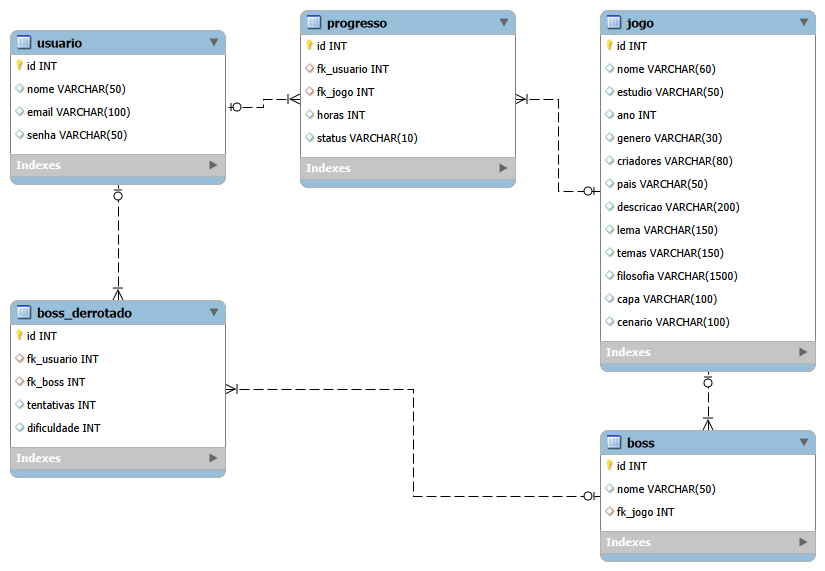
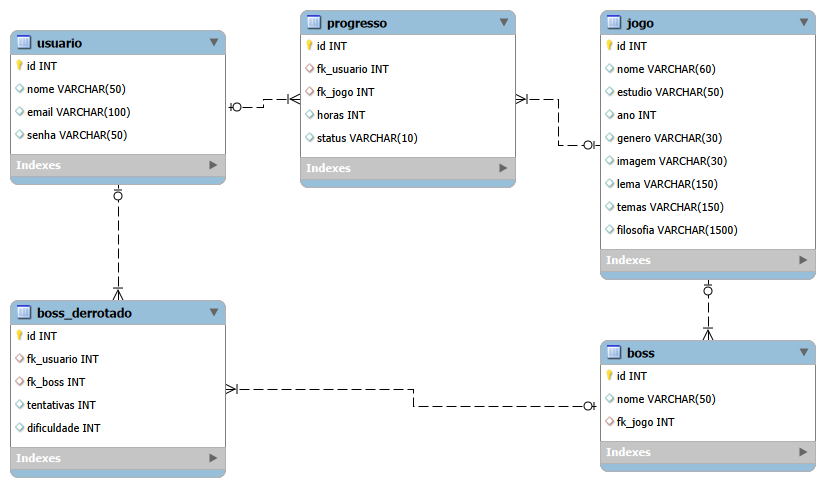
fix: Criação do usuario do banco de dados

diff --git a/DIARIO-DE-PROMPTS.md b/DIARIO-DE-PROMPTS.md
@@ -36,3 +36,15 @@ Onde eu anoto cada vez que usei IA no projeto.
 - IA: Claude Code
 - Pedi: colocar alguns efeitos simples na home para deixar a página mais dinâmica.
 - Ela fez: colocou no fim do `home.css` a borda azul nos cartões ao passar o mouse, a troca de cor dos botões e o topo da página aparecendo aos poucos com `@keyframes`, sem nada se mexer de lugar.
+
+## 04/11/2026 - comentários do script do banco
+
+- IA: Claude Code
+- Pedi: deixar os comentários do script do banco com menos cara de IA.
+- Ela fez: tirou as faixas de separação e os comentários longos e deixou comentários curtos. O código do script não mudou.
+
+## 04/11/2026 - DER atualizado
+
+- IA: Claude Code
+- Pedi: criar de novo o DER, depois das mudanças no script do banco.
+- Ela fez: gerou com o MySQL Workbench o `docs/modelo-logico.mwb` e a imagem `docs/modelo-logico.png`, a partir das tabelas do `script-tabelas.sql`.
